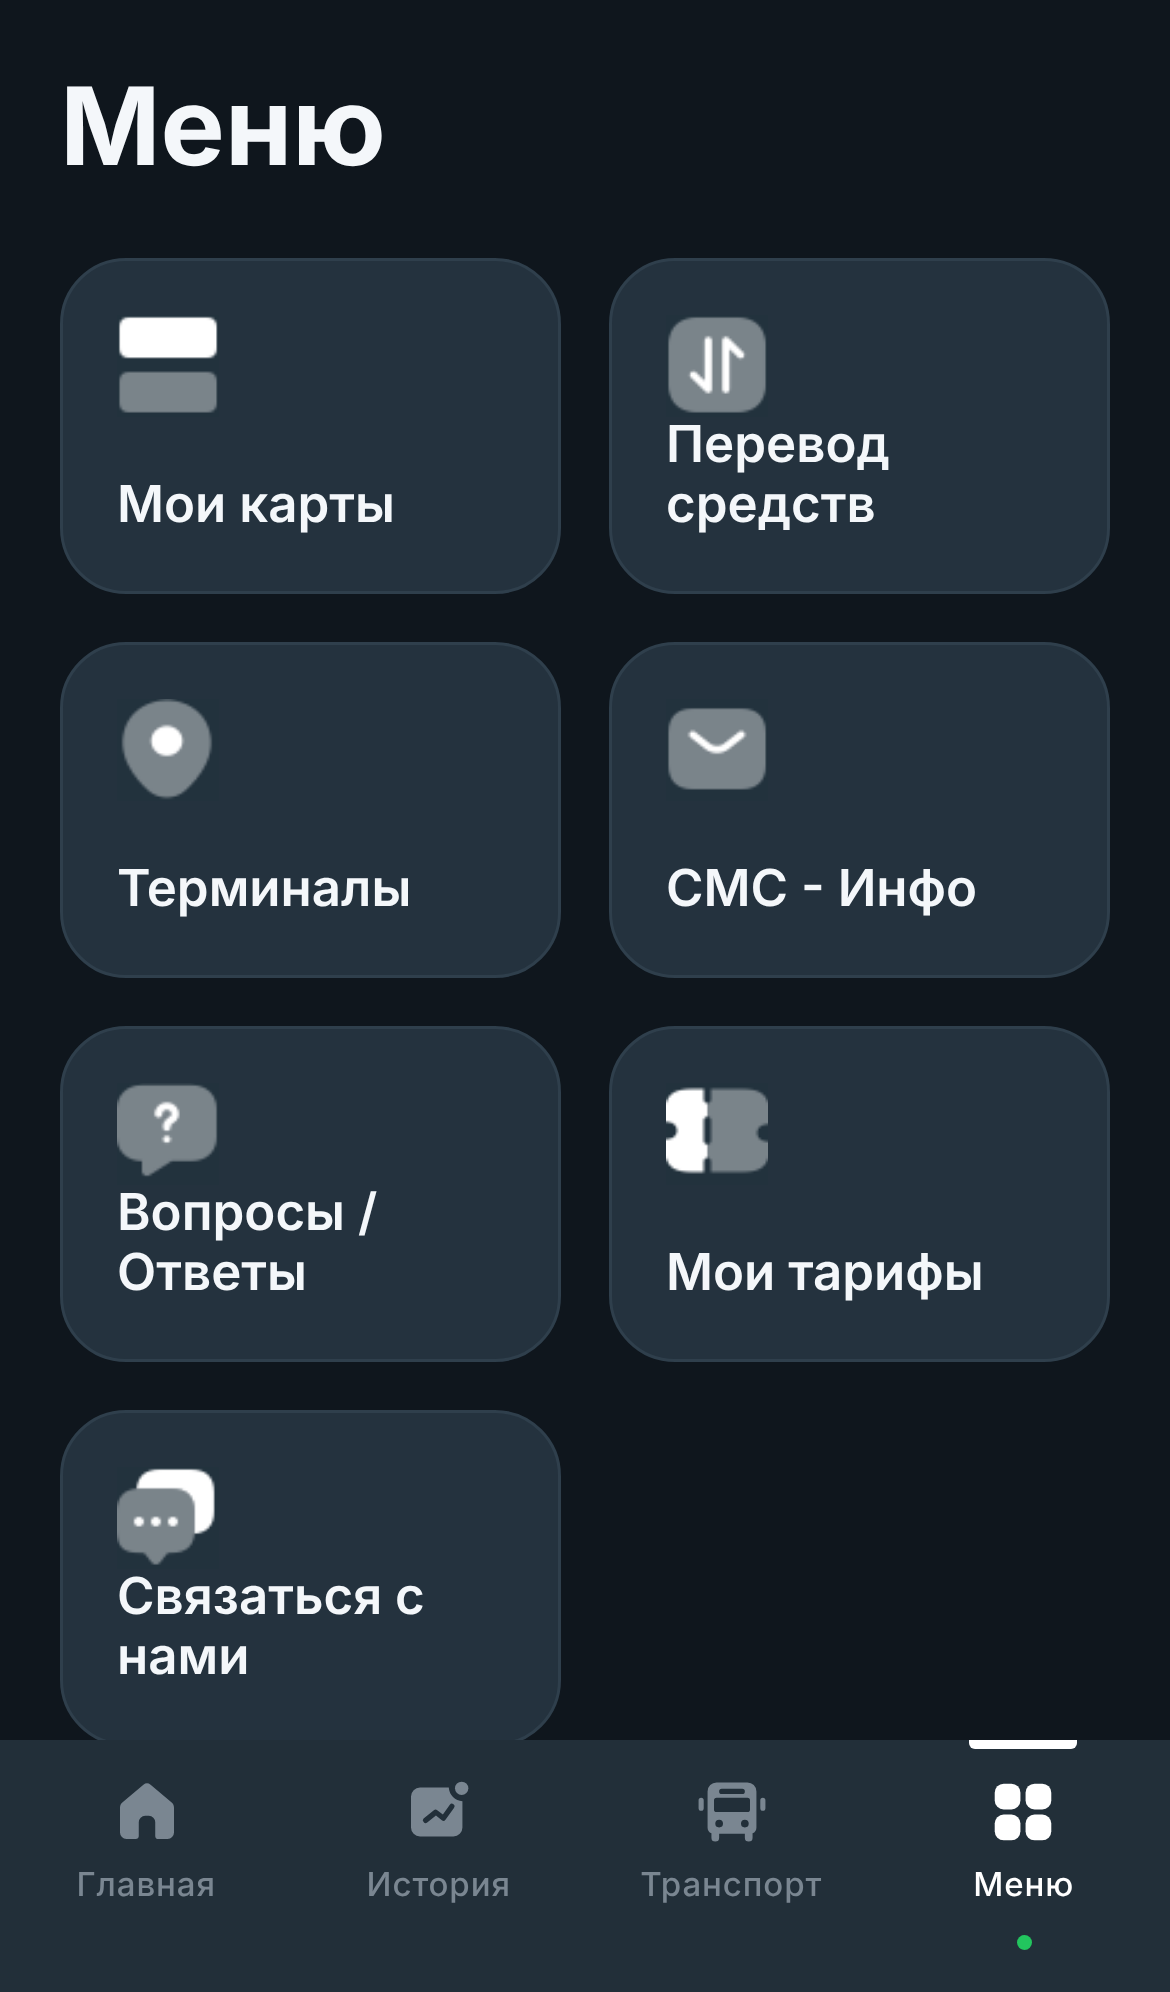
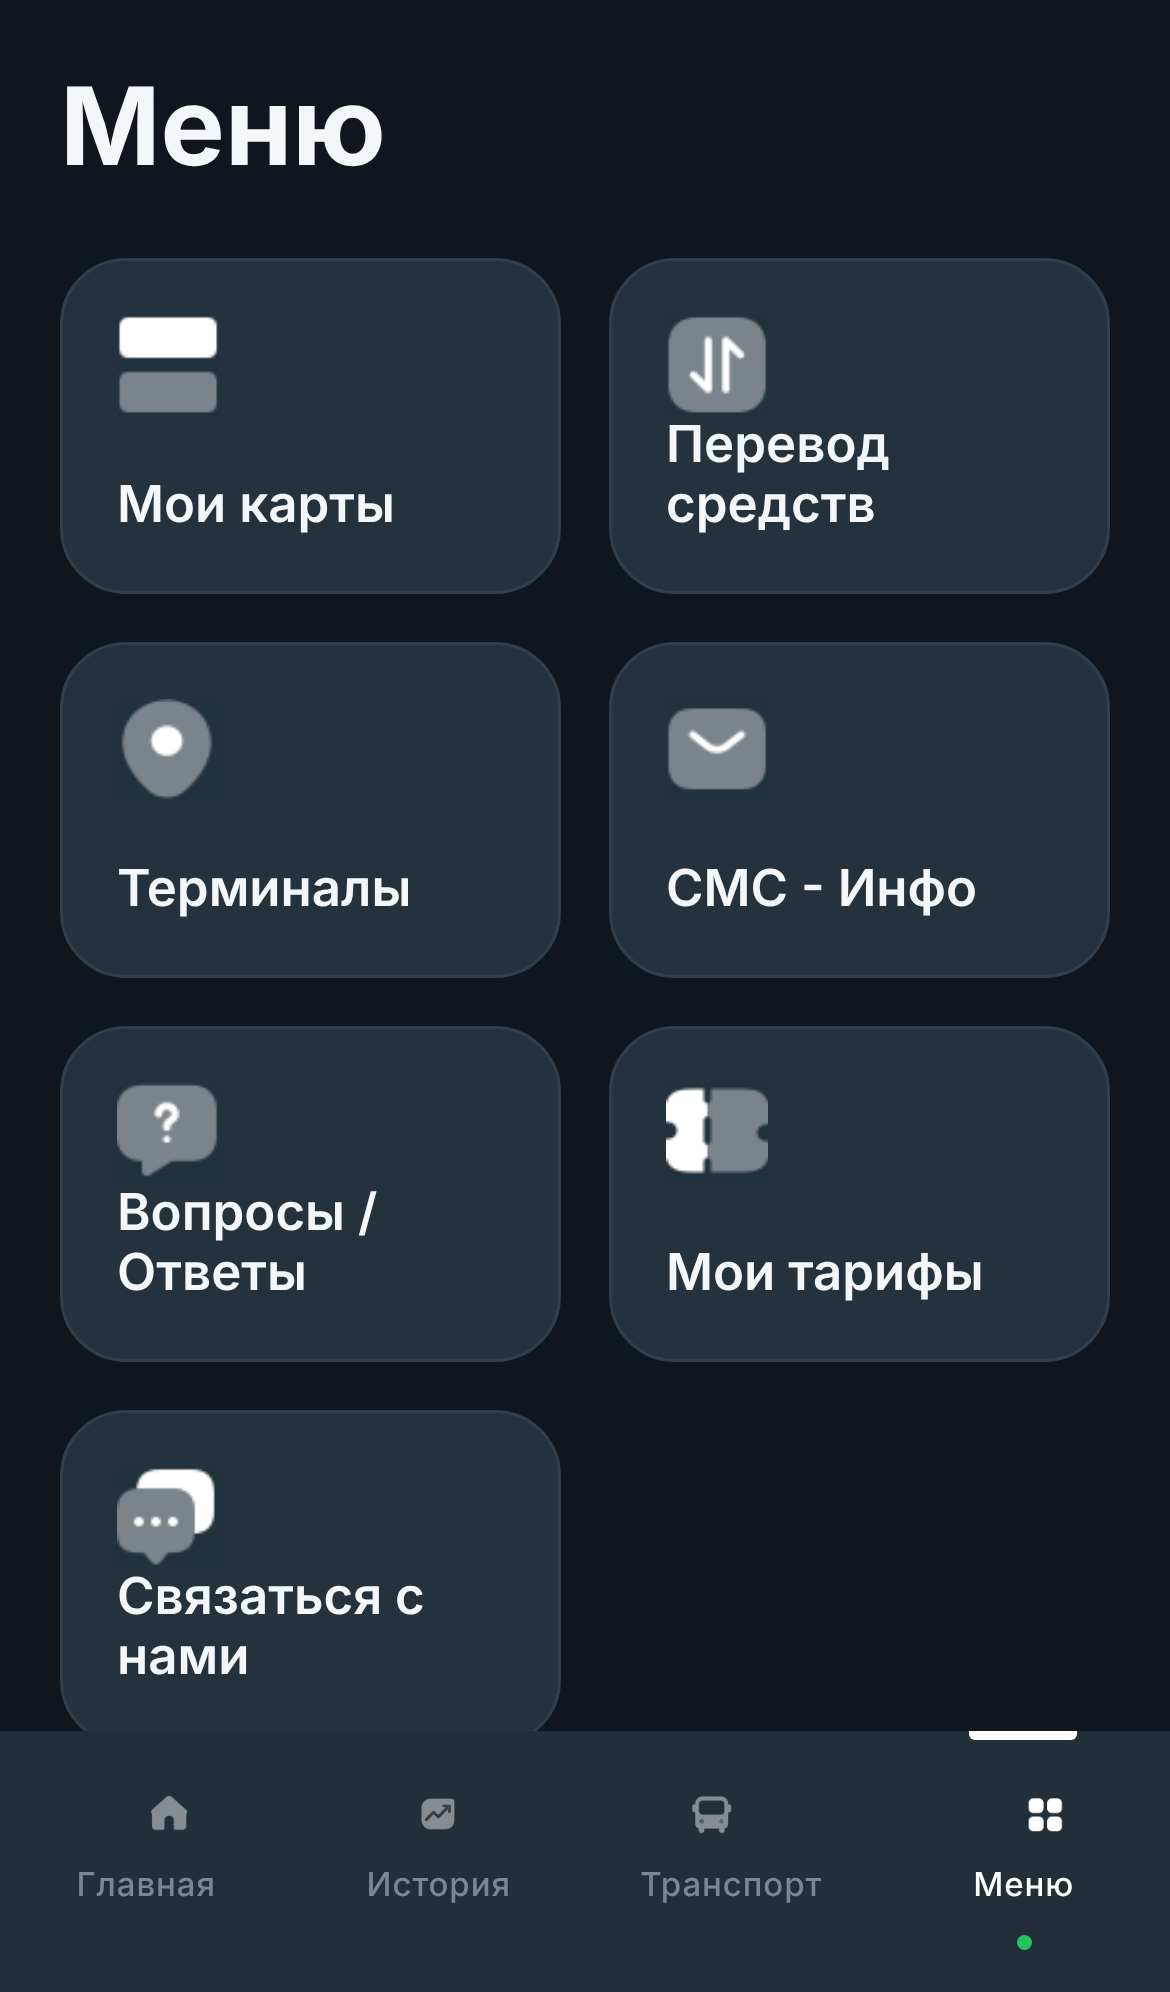
Konsept: ikonlar kattalashtirildi; skrinshotlar yangilandi
Claude-Session: https://claude.ai/code/session_01KVTEyQMYscgZHJL55JKxj1

diff --git a/src/concept/ConceptApp.jsx b/src/concept/ConceptApp.jsx
@@ -113,7 +113,7 @@ export default function ConceptApp() {
       {page === 'transport' && (
         <>
           <header className="topbar">
-            <button className="round-btn" onClick={() => setPage('home')} aria-label="Назад"><Ic name="back" size={22} /></button>
+            <button className="round-btn" onClick={() => setPage('home')} aria-label="Назад"><Ic name="back" size={26} /></button>
             <div className="title">Транспорт</div><span className="spacer" />
           </header>
           <div className="screen">
@@ -127,13 +127,13 @@ export default function ConceptApp() {
             </p>
             <div className="dots"><i className="on" /><i /></div>
             <div className="grid2">
-              <button className="pill-btn" onClick={soon('FacePay')}><span><small>Включить</small>FacePay</span><Ic name="facepay" size={32} /></button>
-              <button className="pill-btn" onClick={soon('PalmPay')}><span><small>Включить</small>PalmPay</span><Ic name="palmpay" size={32} /></button>
-              <button className="action violet" onClick={soon('Пополнение карты')}><Ic name="plus" size={38} />Пополнить карту</button>
-              <button className="action green" onClick={soon('Покупка тарифа')}><Ic name="ticket" size={38} />Купить тариф</button>
+              <button className="pill-btn" onClick={soon('FacePay')}><span><small>Включить</small>FacePay</span><Ic name="facepay" size={46} /></button>
+              <button className="pill-btn" onClick={soon('PalmPay')}><span><small>Включить</small>PalmPay</span><Ic name="palmpay" size={46} /></button>
+              <button className="action violet" onClick={soon('Пополнение карты')}><Ic name="plus" size={52} />Пополнить карту</button>
+              <button className="action green" onClick={soon('Покупка тарифа')}><Ic name="ticket" size={52} />Купить тариф</button>
             </div>
             <button className="wide-action" onClick={soon('QR Оплата')}>
-              <Ic name="qr" size={36} />
+              <Ic name="qr" size={48} />
               <div style={{ marginTop: 14 }}>QR Оплата<small>автобус, метро</small></div>
             </button>
           </div>
@@ -164,7 +164,7 @@ export default function ConceptApp() {
         <nav className="tabbar">
           {TABS.map((t) => (
             <button key={t.id} className={`tab ${page === t.id ? 'on' : ''}`} onClick={() => setPage(t.id)}>
-              <Ic name={t.icon === 'history' ? 'chart' : t.icon} size={26} className="tabic" />{t.label}
+              <Ic name={t.icon === 'history' ? 'chart' : t.icon} size={32} className="tabic" />{t.label}
             </button>
           ))}
         </nav>

diff --git a/src/concept/VirtualCard.jsx b/src/concept/VirtualCard.jsx
@@ -20,7 +20,7 @@ export default function VirtualCard({ balance = '—', holder = 'aau', number = 
       <div className="vcard-holder">{holder}</div>
       <div className="vcard-brand">ATTO<small>VIRTUAL</small></div>
       <div className="vcard-num">
-        <img src="/concept/ic/star.png" alt="" width="22" height="22" />
+        <img src="/concept/ic/star.png" alt="" width="26" height="26" />
         {number}
       </div>
       {onEdit && <button className="vcard-edit" onClick={onEdit} aria-label="Изменить карту">✎</button>}
